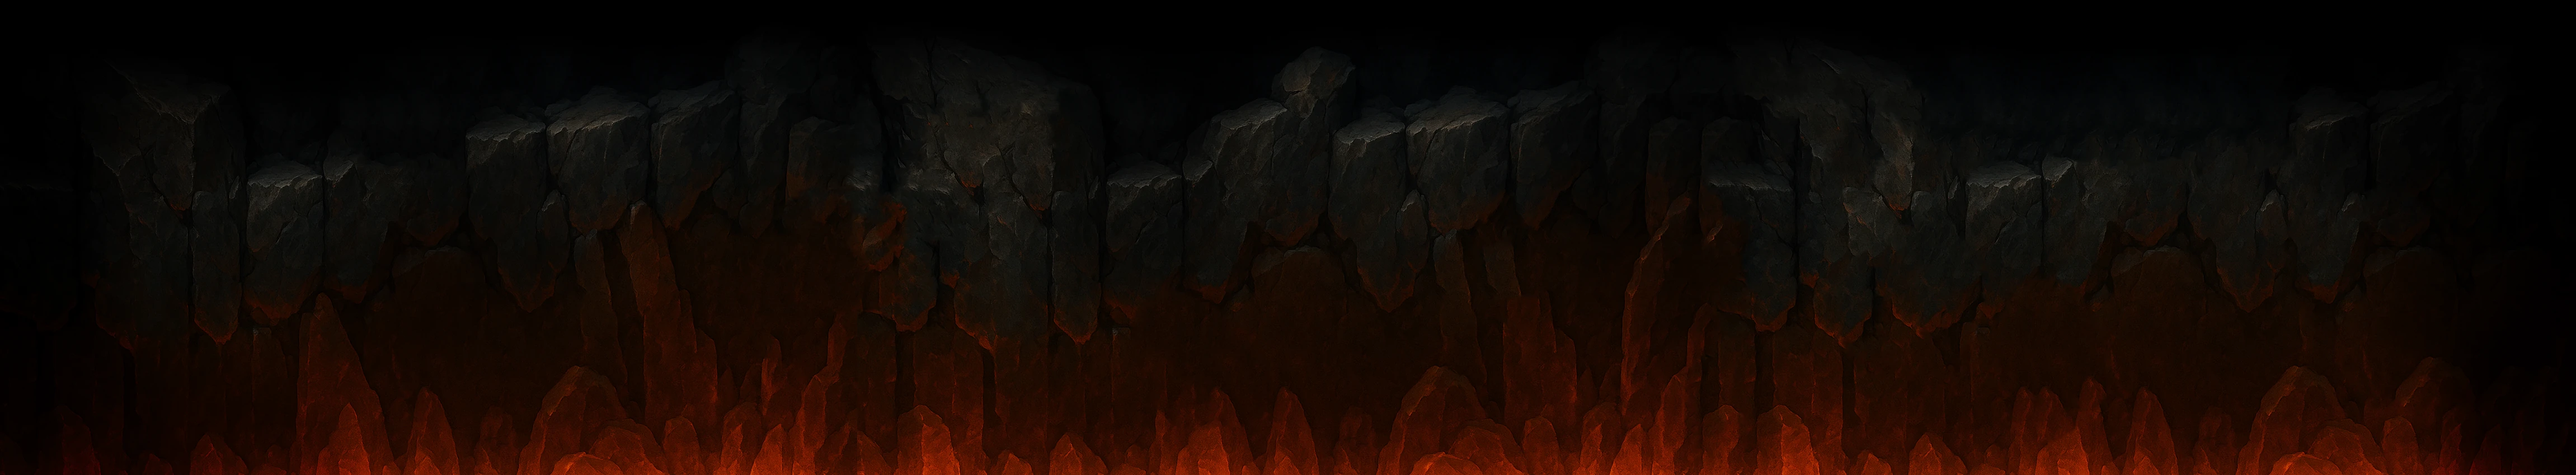
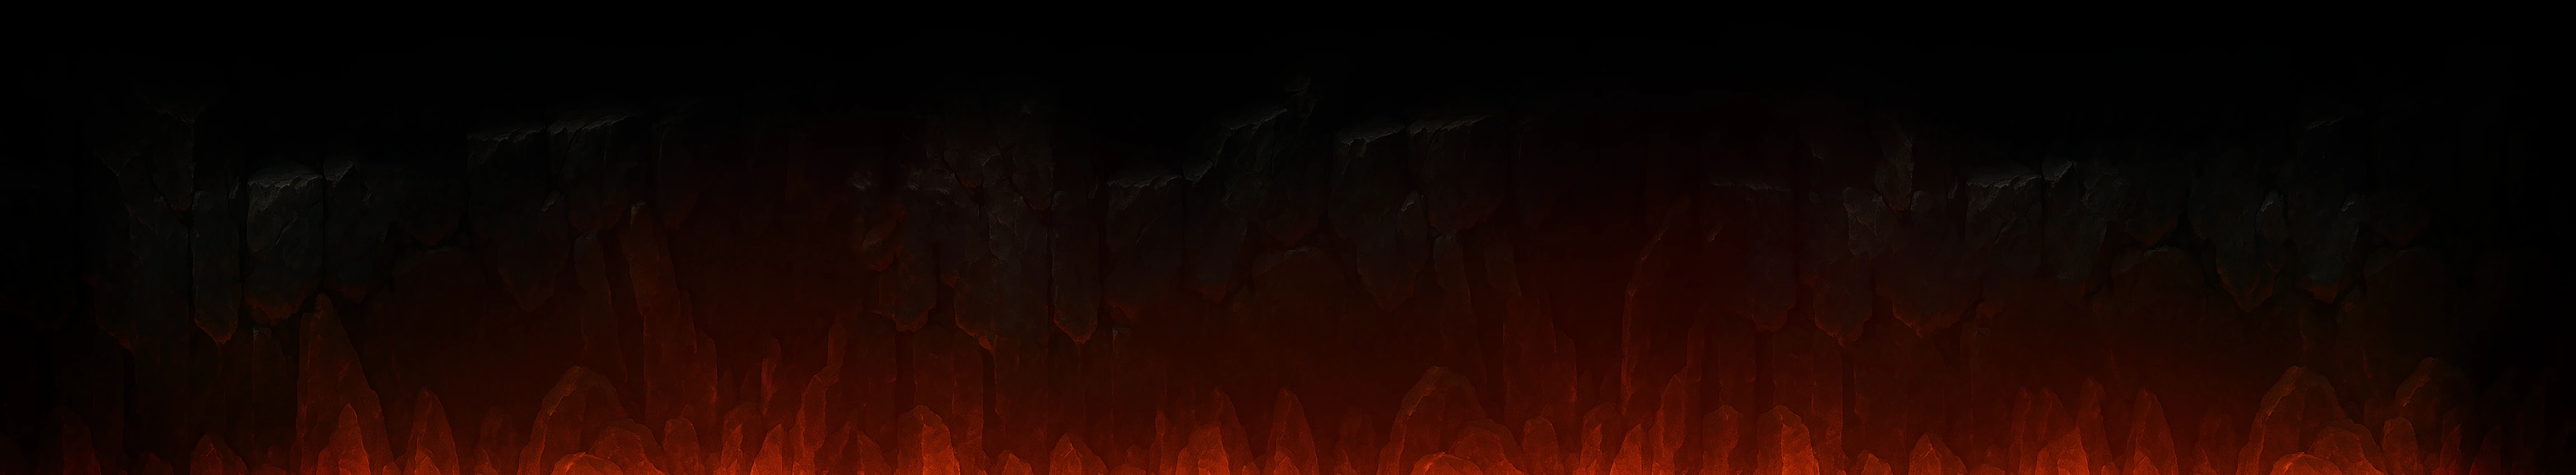
Improve footer glow

diff --git a/src/App.vue b/src/App.vue
@@ -68,7 +68,7 @@ watch(() => router.currentRoute.value, () => {
     <router-view />
     <div class="background-image">
     </div>
-    <ParticleCanvas></ParticleCanvas>
+    <ParticleCanvas :spawn-offset-y="400" :particles="350" class="particle-canvas"></ParticleCanvas>
     <footer>
       <div class="logo-wrapper"><img class="logo" src="/logo.png" alt="Eisenfaust Logo" /></div>
       © 2025 Eisenfaust. Alle Rechte vorbehalten.
@@ -104,6 +104,7 @@ footer {
   padding: clamp(0.5rem, 2vw, 1rem);
   padding-bottom: clamp(2rem, 5vw, 4rem);
   color: black;
+  opacity: 0.5;
   display: flex;
   justify-content: center;
   align-items: center;
@@ -162,7 +163,7 @@ nav > ul > li {
   width: 100vw;
   height: 100vh;
   background-image: url('/lava-glow.webp');
-  background-size: min(100%, 2080px) auto;
+  background-size: min(150%, 2080px) auto;
   background-repeat: no-repeat;
   background-position: bottom;
   position: absolute;

diff --git a/src/components/ParticleCanvas.vue b/src/components/ParticleCanvas.vue
@@ -34,6 +34,10 @@ export default {
     endColor: {
       type: String,
       default: 'var(--ember-700)'
+    },
+    spawnOffsetY: {
+      type: Number,
+      default: 0
     }
   },
   data() {
@@ -160,7 +164,7 @@ export default {
     realignParticle(particle) {
       // Use CSS dimensions for calculations as context is scaled
       particle.x = Math.random() * this.cssWidth / 1.5 + (((this.cssWidth - this.cssWidth / 1.5) / 2))
-      particle.y = Math.random() * this.cssHeight / 4 + this.cssHeight / 3 * 1.5
+      particle.y = Math.random() * this.cssHeight / 4 + this.cssHeight / 3 * 1.5 + this.spawnOffsetY
       particle.a = 0
       particle.transitionProgress = 0
     },

diff --git a/src/views/StoryView.vue b/src/views/StoryView.vue
@@ -77,7 +77,7 @@ import Divider from '../components/Divider.vue';
 }
 
 .block {
-  margin-bottom: 2rem;
+  margin-bottom: 8rem;
 }
 
 h1{

diff --git a/src/views/MediaView.vue b/src/views/MediaView.vue
@@ -269,7 +269,7 @@ onUnmounted(() => {
 }
 
 .block {
-  height: 18rem;
+  height: 20rem;
 }
 
 h1 {
